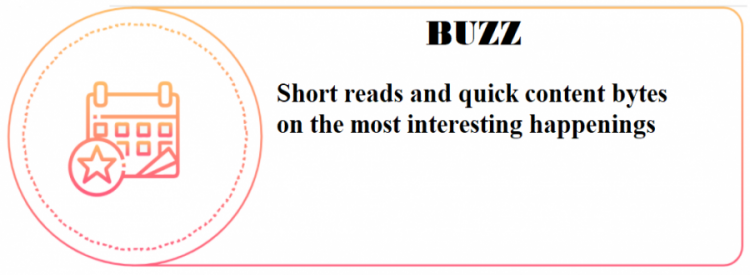
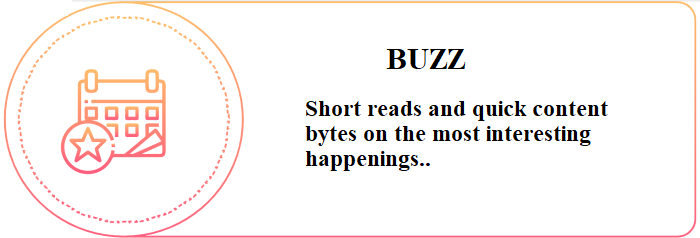
features adjusted

Changed region(s): [[0.0, 0.0, 1.0, 1.0], [0.09, 0.2941, 0.24, 0.7353], [0.42, 0.6176, 0.63, 0.7353]]

diff --git a/styles.css b/styles.css
@@ -94,54 +94,6 @@ header {
   }
 
 
-  
-  /* navbar styling */
-/* .logo{
-  background-image: url("img/logo.jpg");
-  float: left;
-  margin:16px 36px;
-  color: white;
-  font-size: 24px;
-  font-weight: bold;
-} */
-/* .nav{
-  
-  position: fixed;
-  width: 100%;
-}
-
-.nav ul{
-  
-  list-style: none;
-  font-weight: bolder;
-  background: white;
-  overflow: hidden;
-  color: black;
-  text-align: center;
-  margin-left: 15px;
-  margin-right: 15px;
-  margin-top: 7px;
-  border-radius: 25px;
-  padding: 0;
-  transition: 1s;
-}
-.nav .black ul{
-  background-color: black;
-}
-.nav ul li{
-  display: inline-block;
-  padding: 10px;
-}
-.nav ul li:hover{
-  background-color: coral;
-}
-.nav ul li a{
-  text-decoration: none;
-  color: black;
-  font-size: 14px;
-  font-family: sans-serif;
-  letter-spacing: 2px;
-} */
 
 /*Navbar=================================*/
 nav ul{
@@ -403,10 +355,7 @@ label{
 	max-width: 1170px;
 	margin:auto;
 }
-.row{
-	display: flex;
-	flex-wrap: wrap;
-}
+
 ul{
 	list-style: none;
 }
@@ -504,10 +453,9 @@ ul{
     opacity: 1;
   }
 }
-
+/* 
 .img{
-  background-image: url("f1.png");
-  /* background-size: cover; */
+ 
   width: 80%;
   height: 90%;
   object-fit: cover;
@@ -519,4 +467,48 @@ ul{
   align-items: center;
   display: flex;
   justify-content: center;
+} */
+
+
+.row{
+	display: flex;
+ width: 600px;
+  height:200px;
+  background-image: url("features.jpeg");
+  background-repeat: no-repeat;
+  background-size: 600px 200px;
+  /* object-fit:cover;
+  object-position: bottom; */
+  align-items: center;
+}
+.column1 {
+ 
+  width: 35%;
+}
+.column2{
+  width: 55%;
+}
+.m {
+  
+  margin: 40px auto; 
+  height: 320px;
+  width: 600px;  
+  /* display: flex; */
+  justify-content: center;
+
+}
+
+@media(max-width:320px){
+  .m{
+    display: flex;
+    width:auto;
+    height: 90px;
+    margin-top: 20px ;
+    
+  }
+  .row{
+    height: auto;
+    width: auto;
+    background-size: 250px 80px;
+  }
 }

diff --git a/index.html b/index.html
@@ -145,10 +145,20 @@
   <div class="text-center"><h2 data-aos="fade-down">Our Features</h2></div>
 
   <!-- <div class="img" data-aos="fade-up">&nbsp</div> -->
-  <div class="ctr"  data-aos="fade-right"><img src="f1.png"  class="img"></div>
-  <div class="ctr"  data-aos="fade-left"><img src="f1.png"  class="img"></div>
+  
+  <div class="m" data-aos="fade-right">
+    <div class="row"><div class="column1"></div>
+    <div class="column2"><h2>Buzz</h2></h2>
+      <div><p>Short reads and quick content bytes on the most interesting happenings</p></div></div></div>
+  </div>
+  <div class="m">
+    <div class="row"><div class="column"></div>
+    <div class="column"><h2>Catch Up</h2>
+      <div><p>Discover interesting events and gatherings near you</p></div></div></div>
+  </div>
   <div class="item" data-aos="fade-up"><h2>Buzz</h2>
-    <div><p>Short reads and quick content bytes on the most interesting happenings</p></div></div>
+    <div><p></p></div></div>
+
 <div class="item" data-aos="fade-down"><h2>Sync In</h2><p>An open forum for the discussion and exchange of thoughts, ideas and learnings</p>
 </div>
 <div class="item" data-aos="fade-right"><div class="row"><div class="column"></div>
